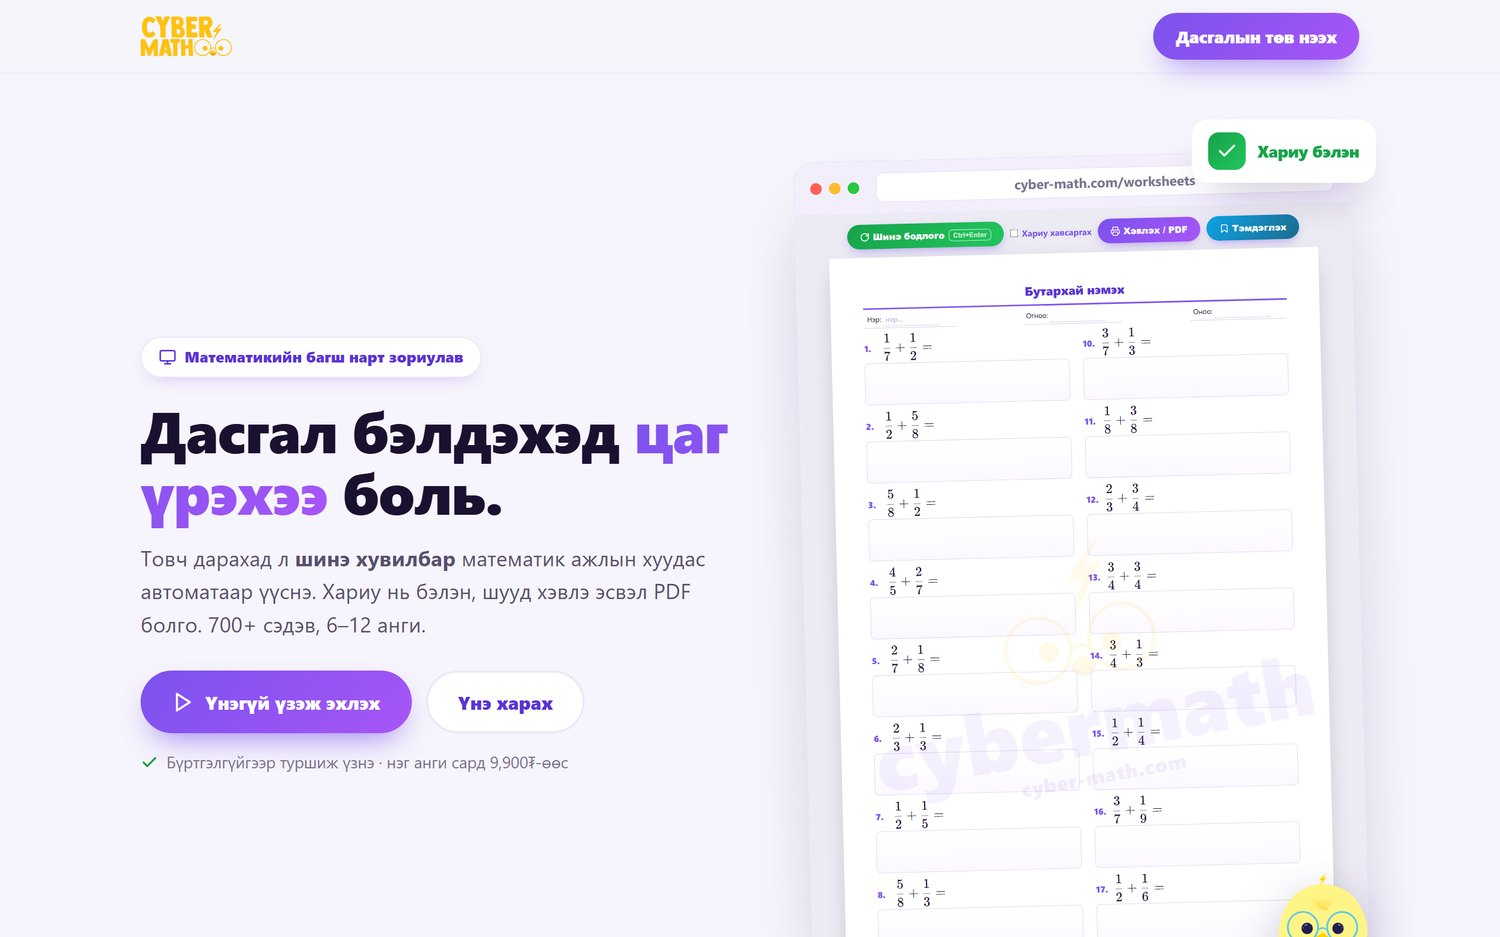
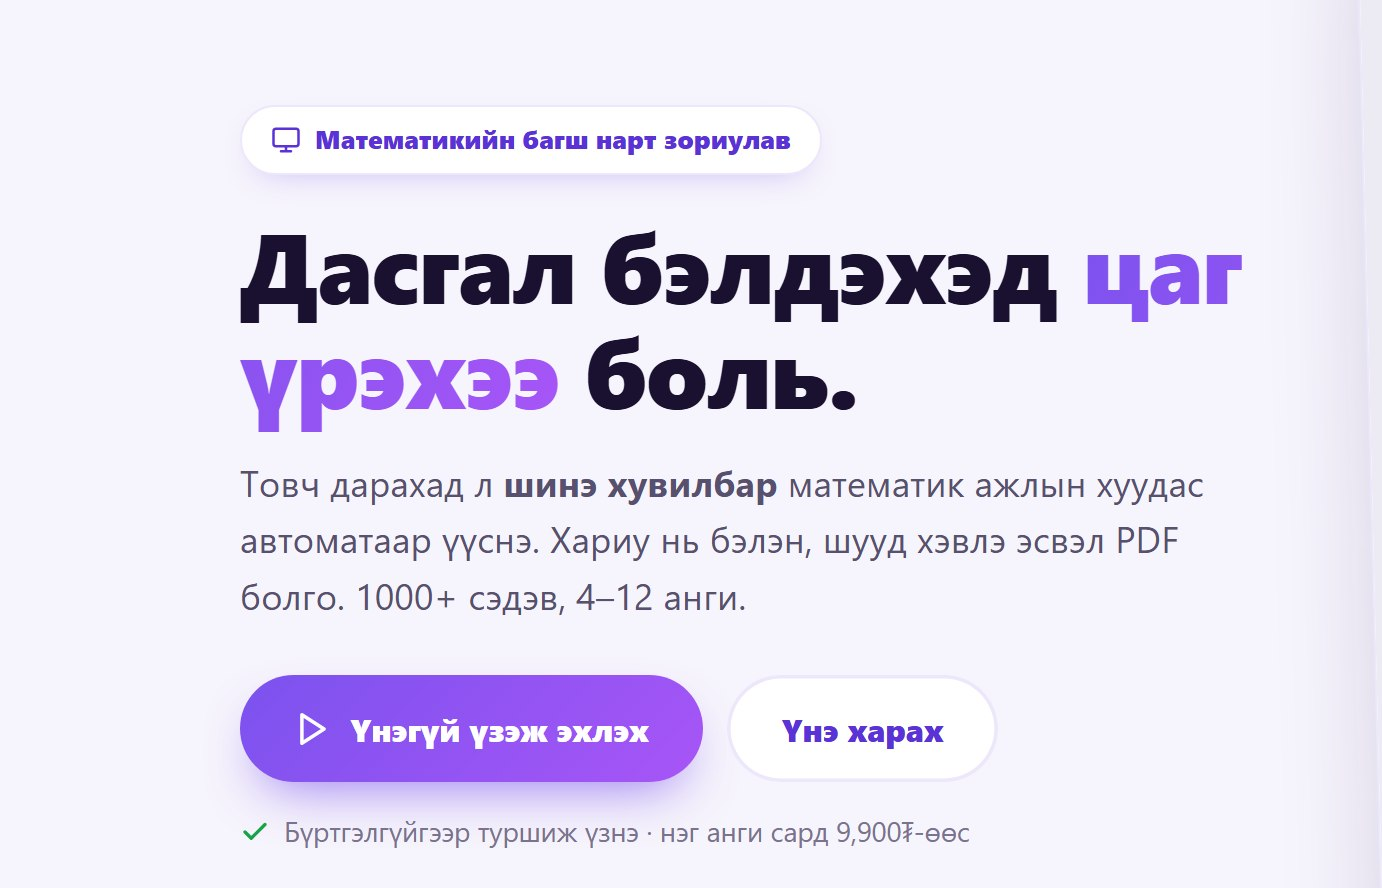
fix(bagsh): танилцуулгыг проекторт тохируулав — үсэг томруулж, дэлгэцийн зургийг уншигдахуйц болгов
- бүх текстийн хэмжээг ~1.5 дахин томруулав (гарчиг, жагсаалт, хүснэгт, тайлбар)
- ажлын хуудсын зургуудыг томруулсан таслагаар сольсон (баганан үржвэр, хариу, талбай, 10-р анги)
- /dasgal-ийн hero зургаас доторх дэлгэцийн зургийг таслав
- сүүлийн слайдад том QR хоёр + 8844-9307 дугаар нэмэв
- 7-р слайдын гарчгийг "4-р ангиас 12-р анги хүртэл" болгов, 10-р слайдын гарчиг зурагтай нийцэв
- meta тайлбар 1078 → 1090, 3-р слайдын эх сурвалжид тайлбар нэмэв
- 1366x768 / 1280x800 / 1600x900 / 1920x1080 бүгдэд слайд багтаж байгааг шалгав

diff --git a/bagsh.html b/bagsh.html
@@ -4,7 +4,7 @@
 <meta charset="UTF-8" />
 <meta name="viewport" content="width=device-width, initial-scale=1.0" />
 <title>CyberMath — Багш нарт зориулсан танилцуулга</title>
-<meta name="description" content="CyberMath: сурагчдад зориулсан суралцах платформ ба багш нарт зориулсан Дасгалын төв — 1078 ажлын хуудас, 4–12 анги." />
+<meta name="description" content="CyberMath: сурагчдад зориулсан суралцах платформ ба багш нарт зориулсан Дасгалын төв — 1090 ажлын хуудас, 4–12 анги." />
 <style>
   :root{--p:#7B52EE;--p2:#A855F7;--ink:#1a1030;--soft:#6c6486;--line:#e7e0f7;--bg:#f6f4fc}
   *{box-sizing:border-box;margin:0;padding:0}
@@ -13,46 +13,48 @@
   #deck{height:100vh;overflow-y:auto;scroll-snap-type:y mandatory;scroll-behavior:smooth}
   .s{height:100vh;scroll-snap-align:start;display:flex;flex-direction:column;justify-content:center;padding:3.4vh 4.6vw 6.4vh;position:relative;overflow:hidden}
   .s.dark{background:linear-gradient(135deg,#3b1e8f,#7B52EE 45%,#A855F7);color:#fff}
-  .tag{display:inline-flex;align-items:center;gap:8px;font-size:clamp(11px,.95vw,14px);font-weight:800;letter-spacing:.14em;text-transform:uppercase;color:var(--p);background:#efe9ff;border-radius:999px;padding:6px 14px;margin-bottom:12px;align-self:flex-start}
+  .tag{display:inline-flex;align-items:center;gap:8px;font-size:clamp(12px,1.05vw,17px);font-weight:800;letter-spacing:.14em;text-transform:uppercase;color:var(--p);background:#efe9ff;border-radius:999px;padding:6px 14px;margin-bottom:12px;align-self:flex-start}
   .s.dark .tag{color:#fff;background:rgba(255,255,255,.16)}
   h1{font-size:clamp(30px,4.6vw,64px);line-height:1.05;font-weight:900;letter-spacing:-.02em}
-  h2{font-size:clamp(23px,2.9vw,42px);line-height:1.12;font-weight:900;letter-spacing:-.01em;margin-bottom:8px}
-  h3{font-size:clamp(15px,1.3vw,20px);font-weight:800;margin-bottom:6px}
-  p.lead{font-size:clamp(14px,1.3vw,20px);color:var(--soft);line-height:1.5;max-width:70ch}
+  h2{font-size:clamp(28px,3.5vw,54px);line-height:1.12;font-weight:900;letter-spacing:-.01em;margin-bottom:8px}
+  h3{font-size:clamp(18px,1.6vw,27px);font-weight:800;margin-bottom:6px}
+  p.lead{font-size:clamp(17px,1.7vw,27px);color:var(--soft);line-height:1.5;max-width:70ch}
   .s.dark p.lead{color:rgba(255,255,255,.88)}
-  .wrap{width:100%;max-width:1260px;margin:0 auto}
+  .wrap{width:100%;max-width:1440px;margin:0 auto}
   .grid{display:grid;gap:clamp(10px,1.3vw,20px);margin-top:clamp(10px,1.8vh,22px)}
   .g2{grid-template-columns:1fr 1fr}.g3{grid-template-columns:repeat(3,1fr)}.g4{grid-template-columns:repeat(4,1fr)}
   .card{background:#fff;border:1.5px solid var(--line);border-radius:16px;padding:clamp(11px,1.2vw,18px);box-shadow:0 12px 30px -22px rgba(60,30,120,.5)}
   .s.dark .card{background:rgba(255,255,255,.1);border-color:rgba(255,255,255,.25);color:#fff}
-  .card p{color:var(--soft);font-size:clamp(12.5px,1vw,16px);line-height:1.45}
+  .card p{color:var(--soft);font-size:clamp(15px,1.35vw,22px);line-height:1.45}
   .s.dark .card p{color:rgba(255,255,255,.85)}
   .ic{width:38px;height:38px;border-radius:12px;background:#efe9ff;color:var(--p);display:flex;align-items:center;justify-content:center;margin-bottom:12px}
   .s.dark .ic{background:rgba(255,255,255,.18);color:#fff}
   .shot{border:1.5px solid var(--line);border-radius:16px;overflow:hidden;background:#fff;box-shadow:0 18px 40px -26px rgba(60,30,120,.55)}
   .shot img{display:block;width:100%;height:auto}
   .shot.crop{max-height:46vh}
+  .shot.zoom img{width:100%;height:auto}
   .shot.crop img{object-fit:cover;object-position:top;height:46vh}
-  .cap{font-size:clamp(12px,.95vw,15px);color:var(--soft);margin-top:8px}
+  .cap{font-size:clamp(15px,1.25vw,20px);color:var(--soft);margin-top:8px}
   .s.dark .cap{color:rgba(255,255,255,.75)}
-  .stat{font-size:clamp(24px,3.2vw,46px);font-weight:900;color:var(--p);line-height:1}
+  .stat{font-size:clamp(30px,3.7vw,56px);font-weight:900;color:var(--p);line-height:1}
   .s.dark .stat{color:#ffd35c}
-  .stat small{display:block;font-size:clamp(11.5px,.95vw,15px);font-weight:700;color:var(--soft);margin-top:6px;letter-spacing:0}
+  .stat small{display:block;font-size:clamp(14px,1.15vw,19px);font-weight:700;color:var(--soft);margin-top:6px;letter-spacing:0}
   .s.dark .stat small{color:rgba(255,255,255,.85)}
   ul.list{list-style:none;margin-top:14px}
-  ul.list li{display:flex;gap:10px;align-items:flex-start;font-size:clamp(13px,1.15vw,18px);line-height:1.4;margin-bottom:9px}
+  ul.list li{display:flex;gap:11px;align-items:flex-start;font-size:clamp(16px,1.65vw,26px);line-height:1.38;margin-bottom:12px}
   ul.list li svg{flex:0 0 auto;margin-top:3px;color:var(--p)}
   .s.dark ul.list li svg{color:#ffd35c}
-  .src{position:absolute;left:5vw;bottom:3vh;font-size:clamp(11px,.85vw,14px);color:#9990b5}
-  .s.dark .src{color:rgba(255,255,255,.62)}
-  table.tb{width:100%;border-collapse:collapse;font-size:clamp(12.5px,1.05vw,17px)}
-  table.tb th,table.tb td{padding:6px 9px;border-bottom:1px solid var(--line);text-align:left}
-  table.tb th{color:var(--soft);font-size:clamp(12px,.95vw,15px);text-transform:uppercase;letter-spacing:.06em}
+  .src{position:absolute;left:5vw;bottom:2.4vh;font-size:clamp(12px,.95vw,16px);color:#6b6386}
+  .s.dark .src{color:rgba(255,255,255,.78)}
+  table.tb{width:100%;border-collapse:collapse;font-size:clamp(15px,1.45vw,23px)}
+  table.tb th,table.tb td{padding:8px 10px;border-bottom:1px solid var(--line);text-align:left}
+  table.tb th{color:var(--soft);font-size:clamp(13px,1.05vw,17px);text-transform:uppercase;letter-spacing:.06em}
   table.tb td b{color:var(--p)}
   .pill{display:inline-block;background:#efe9ff;color:var(--p);font-weight:800;border-radius:999px;padding:5px 13px;font-size:clamp(13px,1.05vw,17px);margin:3px 5px 3px 0}
-  .price{display:flex;align-items:baseline;gap:8px;font-size:clamp(20px,2.3vw,33px);font-weight:900;color:#16a34a}
-  .price span{font-size:clamp(13px,1.1vw,17px);font-weight:700;color:var(--soft)}
-  .qr{background:#fff;border-radius:16px;padding:10px;border:1.5px solid var(--line);width:clamp(120px,12vw,180px)}
+  .price{display:flex;align-items:baseline;gap:8px;font-size:clamp(26px,2.9vw,44px);font-weight:900;color:#16a34a}
+  .price span{font-size:clamp(15px,1.3vw,21px);font-weight:700;color:var(--soft)}
+  .qr{background:#fff;border-radius:16px;padding:10px;border:1.5px solid var(--line);width:clamp(160px,15vw,230px)}
+  .qr.big{width:clamp(200px,20vw,300px);padding:14px}
   .qr img{display:block;width:100%;height:auto}
   .nav{position:fixed;right:16px;bottom:14px;display:flex;gap:8px;align-items:center;z-index:50}
   .nav button{border:0;cursor:pointer;background:#fff;color:var(--p);border:1.5px solid var(--line);width:42px;height:42px;border-radius:50%;display:flex;align-items:center;justify-content:center;box-shadow:0 8px 20px -12px rgba(60,30,120,.6)}
@@ -61,8 +63,8 @@
   .bar{position:fixed;top:0;left:0;height:4px;background:linear-gradient(90deg,var(--p),var(--p2));z-index:60;width:0}
   .logo{display:flex;align-items:center;gap:12px;margin-bottom:22px}
   .logo img{height:clamp(28px,2.8vw,44px)}
-  .logo b{font-size:clamp(18px,1.8vw,26px);letter-spacing:.02em}
-  .foot{display:flex;flex-wrap:wrap;gap:8px 20px;margin-top:16px;font-size:clamp(13px,1.1vw,17px);font-weight:700}
+  .logo b{font-size:clamp(20px,2vw,30px);letter-spacing:.02em}
+  .foot{display:flex;flex-wrap:wrap;gap:8px 24px;margin-top:16px;font-size:clamp(16px,1.45vw,23px);font-weight:700}
   .foot span{display:inline-flex;align-items:center;gap:8px}
   @media (max-width:900px){.g2,.g3,.g4{grid-template-columns:1fr}.shot.crop,.shot.crop img{max-height:42vh;height:auto}}
   @media print{
@@ -132,7 +134,7 @@
       </div>
       <div class="shot crop" style="margin-top:20px"><img src="/assets/bagsh/catalog.jpg" alt="Дасгалын төвийн каталог" /></div>
     </div>
-    <div class="src">Эх сурвалж: CyberMath каталог (catalog.js), 2026.09.23 — 4:43, 5:95, 6:239, 7:137, 8:165, 9:116, 10:166, 11:105, 12:12</div>
+    <div class="src">Эх сурвалж: CyberMath каталог (catalog.js), 2026.09.23 — анги тус бүрийн хуудасны тоо: 4-р 43 · 5-р 95 · 6-р 239 · 7-р 137 · 8-р 165 · 9-р 116 · 10-р 166 · 11-р 105 · 12-р 12 · Cambridge 12</div>
   </section>
 
   <!-- 4 -->
@@ -150,7 +152,7 @@
           </ul>
         </div>
         <div>
-          <div class="shot crop"><img src="/assets/bagsh/ws-g4-col.jpg" alt="4-р ангийн ажлын хуудас — баганан бичиглэл" /></div>
+          <div class="shot zoom"><img src="/assets/bagsh/ws-g4-col.jpg" alt="4-р ангийн ажлын хуудас — баганан бичиглэл" /></div>
           <div class="cap">4-р анги · «Нэг ба хоёр оронтой тоогоор үржүүлэх-1»</div>
         </div>
       </div>
@@ -164,7 +166,7 @@
       <div class="tag">Багшийн цаг</div>
       <h2>Хариу нь өөрөө бэлддэг</h2>
       <p class="lead">«Хариу хавсаргах» дарахад бүх бодлогын хариу, олон оронтой үйлдлийн бүрэн баганан бодолт хамт гарна. Гараар бодож шалгах шаардлагагүй.</p>
-      <div class="shot crop" style="margin-top:18px"><img src="/assets/bagsh/ws-g4-answers.jpg" alt="Хариу ба бодолт" /></div>
+      <div class="shot zoom" style="margin-top:16px;max-width:min(1000px,64vw,118vh);margin-left:auto;margin-right:auto"><img src="/assets/bagsh/ws-g4-answers.jpg" alt="Хариу ба бодолт" /></div>
     </div>
     <div class="src">Эх сурвалж: cyber-math.com/urjuuleh-1-4.html — «Хариу ба бодолт» хэсэг</div>
   </section>
@@ -184,7 +186,7 @@
           </ul>
         </div>
         <div>
-          <div class="shot crop"><img src="/assets/bagsh/ws-g4-fig.jpg" alt="4-р анги — талбай хэмжих ажлын хуудас" /></div>
+          <div class="shot zoom"><img src="/assets/bagsh/ws-g4-fig.jpg" alt="4-р анги — талбай хэмжих ажлын хуудас" /></div>
           <div class="cap">4-р анги · «Талбайг хэмжих, биетийн дэлгээс хийх-1»</div>
         </div>
       </div>
@@ -195,8 +197,8 @@
   <!-- 7 -->
   <section class="s">
     <div class="wrap">
-      <div class="tag">Ахлах анги</div>
-      <h2>Дунд ангиас ахлах анги хүртэл</h2>
+      <div class="tag">Бүх анги</div>
+      <h2>4-р ангиас 12-р анги хүртэл</h2>
       <div class="grid g2">
         <div>
           <table class="tb">
@@ -212,7 +214,7 @@
           </table>
         </div>
         <div>
-          <div class="shot crop"><img src="/assets/bagsh/ws-g10.jpg" alt="10-р ангийн ажлын хуудас" /></div>
+          <div class="shot zoom"><img src="/assets/bagsh/ws-g10.jpg" alt="10-р ангийн ажлын хуудас" /></div>
           <div class="cap">10-р анги · «Квадрат тэгшитгэл бодох 1» — 39 бодлого</div>
         </div>
       </div>
@@ -272,7 +274,7 @@
           <div class="price">39,900₮ <span>/ 3 сар</span></div>
           <ul class="list" style="margin-top:10px">
             <li><svg viewBox="0 0 24 24" width="20" height="20" fill="none" stroke="currentColor" stroke-width="2.6" stroke-linecap="round" stroke-linejoin="round"><path d="M20 6 9 17l-5-5"/></svg><span>4–12-р ангийн бүх хуудас хязгааргүй</span></li>
-            <li><svg viewBox="0 0 24 24" width="20" height="20" fill="none" stroke="currentColor" stroke-width="2.6" stroke-linecap="round" stroke-linejoin="round"><path d="M20 6 9 17l-5-5"/></svg><span>6 сар 69,900₮ · 9 сар 99,900₮ · 1 жил 119,900₮</span></li>
+            <li><svg viewBox="0 0 24 24" width="20" height="20" fill="none" stroke="currentColor" stroke-width="2.6" stroke-linecap="round" stroke-linejoin="round"><path d="M20 6 9 17l-5-5"/></svg><span>6 сар 69,900₮ · 9 сар 99,900₮ · <b>1 жил 119,900₮</b> — нэг ангийн жилийн үнэтэй бараг ижил</span></li>
           </ul>
         </div>
       </div>
@@ -289,7 +291,7 @@
   <section class="s">
     <div class="wrap">
       <div class="tag">Сурагчдад</div>
-      <h2>Тоглоомоор дамжуулан давтана</h2>
+      <h2>Тоглоом, Learning Path, XP</h2>
       <div class="grid g2">
         <div>
           <ul class="list">
@@ -366,12 +368,21 @@
   <!-- 13 -->
   <section class="s dark">
     <div class="wrap" style="text-align:center">
-      <h1 style="font-size:clamp(30px,4.6vw,64px)">Асуулт байна уу?</h1>
-      <p class="lead" style="margin:18px auto 0;text-align:center">Туршиж үзээд саналаа хэлээрэй — сайтын «Санал хүсэлт» хэсгээр эсвэл утсаар.</p>
-      <div class="foot" style="justify-content:center;margin-top:26px;font-size:clamp(16px,1.6vw,24px)">
-        <span>8844-9307</span>
-        <span>cyber-math.com/dasgal</span>
-        <span>cyber-math.com</span>
+      <h1 style="font-size:clamp(28px,4.2vw,58px)">Одоо туршиж үзээрэй</h1>
+      <div style="display:flex;gap:clamp(18px,3.4vw,52px);align-items:center;justify-content:center;flex-wrap:wrap;margin-top:clamp(14px,3vh,32px)">
+        <div style="text-align:center">
+          <div class="qr big"><img src="/assets/bagsh/qr-dasgal.png" alt="cyber-math.com/dasgal QR" /></div>
+          <div style="margin-top:10px;font-weight:800;font-size:clamp(15px,1.4vw,23px);line-height:1.35">Дасгалын төв<br /><span style="font-weight:600;opacity:.85">cyber-math.com/dasgal</span></div>
+        </div>
+        <div style="text-align:center">
+          <div class="qr big"><img src="/assets/bagsh/qr-game.png" alt="cyber-math.com QR" /></div>
+          <div style="margin-top:10px;font-weight:800;font-size:clamp(15px,1.4vw,23px);line-height:1.35">Сурагчдад<br /><span style="font-weight:600;opacity:.85">cyber-math.com</span></div>
+        </div>
+        <div style="text-align:left">
+          <div style="font-size:clamp(13px,1.15vw,18px);font-weight:800;letter-spacing:.14em;text-transform:uppercase;opacity:.82">Холбоо барих</div>
+          <div style="font-size:clamp(38px,5.2vw,80px);font-weight:900;line-height:1.05;letter-spacing:-.02em;color:#ffd35c">8844-9307</div>
+          <p class="lead" style="margin-top:10px;max-width:24ch">Урилгын линк, бүлгийн эрх, санал хүсэлт — утсаар хандаарай.</p>
+        </div>
       </div>
     </div>
     <div class="src" style="left:0;width:100%;text-align:center">CyberMath · Монголд бүтээв</div>
